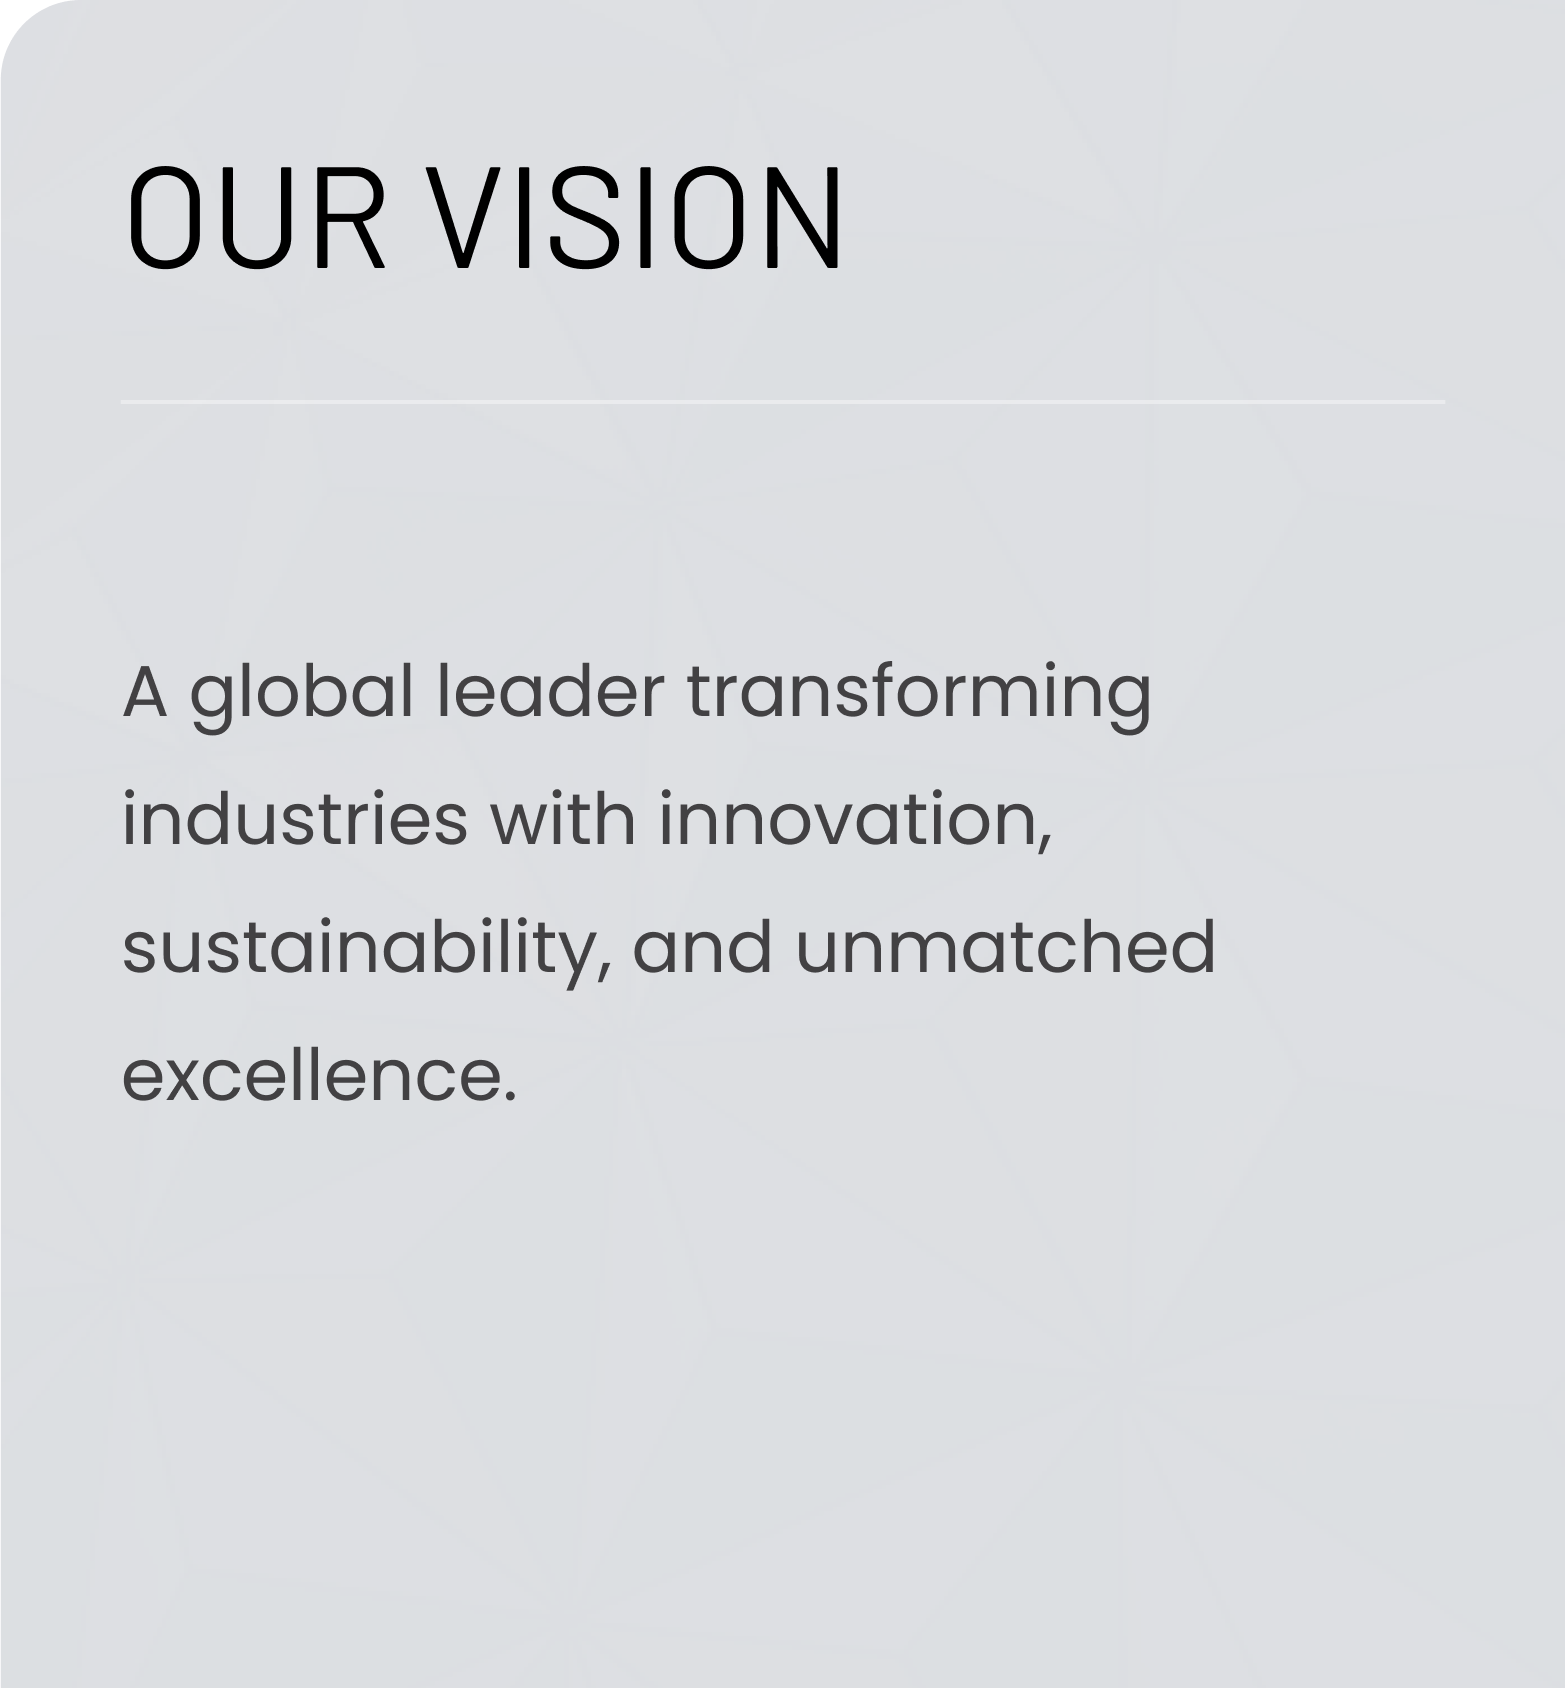
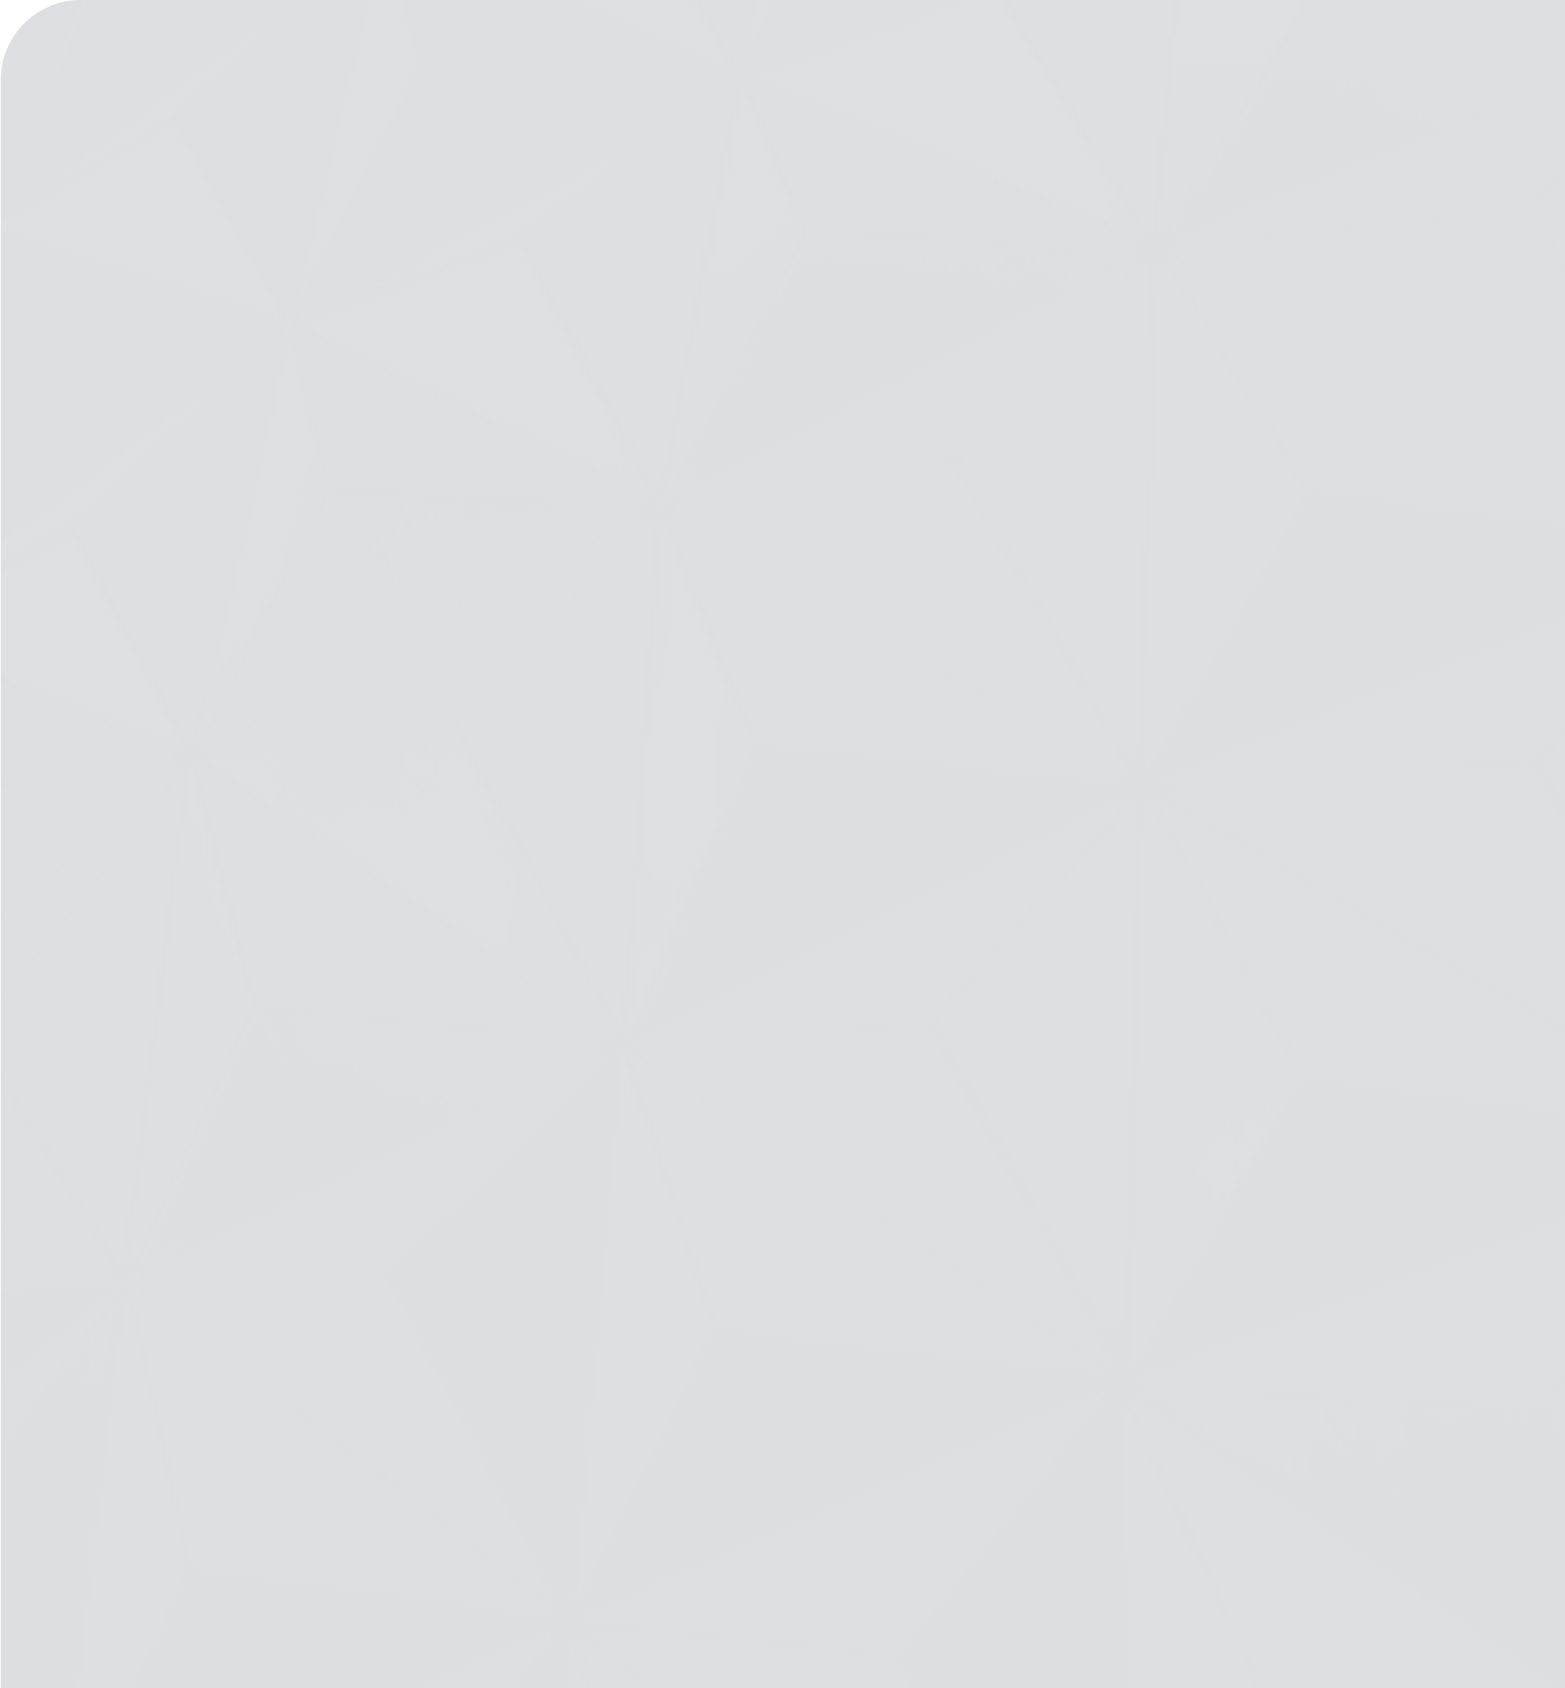
lastest update

diff --git a/src/App.css b/src/App.css
@@ -295,6 +295,7 @@ height: 18px;
   font-weight: 400;
   line-height: 1.6;
   color: #333;
+  text-align: justify;
 }
 
 .service-button {
@@ -416,7 +417,7 @@ height: 18px;
   margin-bottom: 40px;
   width: 100%;
   max-width: 584px;
-  text-align: center;
+  text-align: justify;
   margin-left: auto;
   margin-right: auto;
 }
@@ -1158,6 +1159,7 @@ hr{
 
 .about-content p{
   margin: 0;
+  text-align: justify;
 }
 
 .aboutBorder{
@@ -1169,6 +1171,50 @@ width: 600px; /* You can adjust the width as needed */
   margin-top: 359px;
 }
 
+/* our mission part */
+.about-mission-section {
+  display: flex;
+  flex-wrap: wrap;
+  justify-content: center;
+  gap: 58px;
+ 
+}
+
+.about-card {
+  width: 300px;
+  padding: 30px 20px;
+  background-size: cover;
+  background-position: center;
+  background-repeat: no-repeat;
+  border-radius: 10px;
+  background-color: rgba(255, 255, 255, 0.8); /* fallback */
+  color: #333;
+  box-shadow: 0 4px 8px rgba(0, 0, 0, 0.1);
+}
+
+.about-card h3 {
+  font-size: 20px;
+  font-weight: bold;
+  margin-bottom: 10px;
+  text-transform: uppercase;
+ 
+}
+
+.about-card hr {
+  border: none;
+  border-top: 1px solid #ccc;
+  margin-bottom: 16px;
+}
+
+.about-card {
+  font-size: 14px;
+  text-align: justify;
+  line-height: 1.6;
+}
+
+/* our mission part end*/
+
+
 .story{
   margin-top: 300px;
   text-align: end;
@@ -1177,10 +1223,10 @@ width: 600px; /* You can adjust the width as needed */
 }
 
 .contactAdd{
-  text-align: center;
+  text-align: start;
   font-size: 16px;
   font-weight: bold;
-  padding: 30px 0;
+  
 }
 
 /* contact section */
@@ -1206,7 +1252,8 @@ width: 600px; /* You can adjust the width as needed */
   gap: 15px;
   flex: 1;
   min-width: 300px;
-  margin-top: 216px;
+  margin-top:20px;
+ 
 }
 
 .contact-form input,
@@ -1415,6 +1462,10 @@ width: 600px; /* You can adjust the width as needed */
   transform: translateY(-7px) rotate(-45deg);
 }
 
+.text-alignment{
+  text-align: justify;
+}
+
 /* Mobile styles */
 @media (min-width: 320px) and (max-width: 750px) {
 
@@ -1433,6 +1484,12 @@ width: 600px; /* You can adjust the width as needed */
     top: 50%;
     transform: translateY(-50%);
   }
+
+  .text-alignment{
+    text-align: justify;
+    padding-right: 40px;
+  }
+
 
   /* Main navigation */
   .header__nav {
@@ -1606,7 +1663,7 @@ width: 600px; /* You can adjust the width as needed */
 
   .news-text {
     font-size: 13px;
-    text-align: left;
+    padding: 0;
   }
 
   .news-grid::-webkit-scrollbar {
@@ -1633,15 +1690,18 @@ width: 600px; /* You can adjust the width as needed */
   font-weight: 300;
   color: #000;
   margin-bottom: 24px;
+  text-align: start;
+  padding: 0 40px;
 }
 
 .sectors-right h1 {
   font-size: 50px;
   font-family: 'Poppins', sans-serif;
   font-weight: 300; /* Previously 300 */
-  text-align: center;
+  text-align: start;
   margin-bottom: 20px;
   line-height: 1.2;
+  
 }
 
 .service-description {
@@ -1650,7 +1710,9 @@ width: 600px; /* You can adjust the width as needed */
   font-weight: 400;
   line-height: 1.6;
   color: #333;
-  padding: 0 20px;
+  padding: 0 40px;
+  text-align: justify;
+
 }
 
 .clients-logos {

diff --git a/src/pages/AboutUs.js b/src/pages/AboutUs.js
@@ -50,9 +50,64 @@ function AboutUs() {
 
       <div className="division-card-container textcard">
         <div className="division-card4">
-          <img src="/ab1.png" width={400} />
-          <img src="/ab2.png" width={400} />
-          <img src="/ab3.png" width={400} />
+          <div className="about-mission-section">
+            <div
+              className="about-card"
+              style={{ backgroundImage: "url(ab1.png)" }}
+            >
+              <h3>OUR VISION</h3>
+              <hr />
+              <p>A global leader transforming industries with:</p>
+              <ul>
+                <li>Innovation</li>
+                <li>Sustainability</li>
+                <li>Unmatched excellence</li>
+              </ul>
+            </div>
+
+            <div
+              className="about-card"
+              style={{ backgroundImage: "url(ab2.png)" }}
+            >
+              <h3>OUR MISSION</h3>
+              <hr />
+              <p>
+                To drive sustainable growth and deliver high-quality solutions
+                across:
+              </p>
+              <ul>
+                <li>Real estate</li>
+                <li>Healthcare</li>
+                <li>Aviation</li>
+                <li>Energy</li>
+                <li>Minerals</li>
+                <li>Trade</li>
+                <li>Technology</li>
+              </ul>
+              <p>
+                While creating long-term value for our stakeholders, partners,
+                and communities.
+              </p>
+            </div>
+
+            <div
+              className="about-card"
+              style={{ backgroundImage: "url(ab3.png)" }}
+            >
+              <h3>OUR VALUES</h3>
+              <hr />
+              <ul>
+                <li>
+                  Diversify and expand operations across high-potential markets
+                </li>
+                <li>Innovate continuously using advanced technologies</li>
+                <li>Ensure operational excellence and quality assurance</li>
+                <li>
+                  Empower people through professionalism, growth, and leadership
+                </li>
+              </ul>
+            </div>
+          </div>
         </div>
       </div>
 

diff --git a/src/pages/Contact.js b/src/pages/Contact.js
@@ -6,42 +6,47 @@ import Footer from "../components/Footer";
 function Contact() {
   return (
     <div>
-      <Headers></Headers>
+      <Headers />
       <div className="all-hero">
-        <img src="contact.png" />
+        <img src="contact.png" alt="Contact Hero" />
       </div>
-      {/* Core Business start */}
 
-      {/* Core Business end */}
-
-      {/* On going start */}
-
+      {/* Contact Title */}
       <div className="Core-title">
         <h2>Contact Us</h2>
       </div>
-      <div className="contactAdd">
-        <p>Erectors House, 11th Floor, 18 Kemal Ataturk</p>
-        <p>Avenue, Banani C/A, Dhaka – 1213, Bangladesh</p>
-      </div>
 
       <div className="division-card-container contact-section">
+        {/* Embedded Google Map */}
         <div className="map-wrapper">
-          <img src="your-map-image.png" width={550.31} alt="Map Location" />
+          <iframe
+            title="Bakkah Tower Map"
+            src="https://www.google.com/maps/embed?pb=!1m18!1m12!1m3!1d116822.3599793078!2d90.32146541995863!3d23.793739526095557!2m3!1f0!2f0!3f0!3m2!1i1024!2i768!4f13.1!3m3!1m2!1s0x3755c7007b8c29d5%3A0xe4a1ea46c64b8cce!2sBakkah%20Tower!5e0!3m2!1sen!2sbd!4v1753042646978!5m2!1sen!2sbd"
+            width="550.31"
+            height="450"
+            style={{ border: 0, borderRadius: "0" }}
+            allowFullScreen=""
+            loading="lazy"
+            referrerPolicy="no-referrer-when-downgrade"
+          ></iframe>
         </div>
 
+        {/* Contact Form */}
         <form className="contact-form">
+          <div className="contactAdd">
+            <p>Bakkah Tower, 18 Kemal Ataturk Ave, Dhaka 1212</p>
+          </div>
+
           <input type="text" placeholder="Name" />
           <input type="email" placeholder="Email" />
-          <input type="text" placeholder="Message" />
+          <input type="text" placeholder="Subject" />
           <textarea placeholder="Message" rows={5}></textarea>
           <button type="submit">Send</button>
         </form>
       </div>
 
-      {/* On going end */}
-
-      {/* footer */}
-      <Footer></Footer>
+      {/* Footer */}
+      <Footer />
     </div>
   );
 }

diff --git a/src/pages/home.js b/src/pages/home.js
@@ -114,13 +114,13 @@ function Home() {
           </div>
         </div>
 
-        <div className="sectors-right">
+        <div className="sectors-right ">
           <h1>
             Strength in Sectors,
             <br />
             United by Vision
           </h1>
-          <p className="description">
+          <p className="description ">
             “Bakkah Holdings is a dynamic conglomerate specializing in diverse
             sectors including real estate, healthcare, aviation, energy, power
             and minerals, trade, and technology.”
@@ -166,7 +166,7 @@ function Home() {
         <div className="overlay">
           <div className="content">
             <h1>Giving The Best For Dreams</h1>
-            <p>
+            <p className="text-alignment">
               Sponsored having diversified experience in the field of Civil
               Engineering Construction (Home & Abroad), Manufacturing in the
               area of Jute, Plastic, Lamination, Real Estate, Food & Beverage,
@@ -175,7 +175,6 @@ function Home() {
               ICT Technologies, High-tech Park development, Pipeline & Steel
               Fabrication/Erection and many more.
             </p>
-            <button>Read more info</button>
           </div>
         </div>
       </section>

diff --git a/src/components/LatestNews.js b/src/components/LatestNews.js
@@ -32,7 +32,7 @@ const LatestNews = () => {
               <img src={item.image} alt="news" className="news-image" />
               {/* <span className="badge">{item.badge}</span> */}
             </div>
-            <p className="news-text">{item.text}</p>
+            <p className="news-text text-alignment">{item.text}</p>
           </div>
         ))}
       </div>
